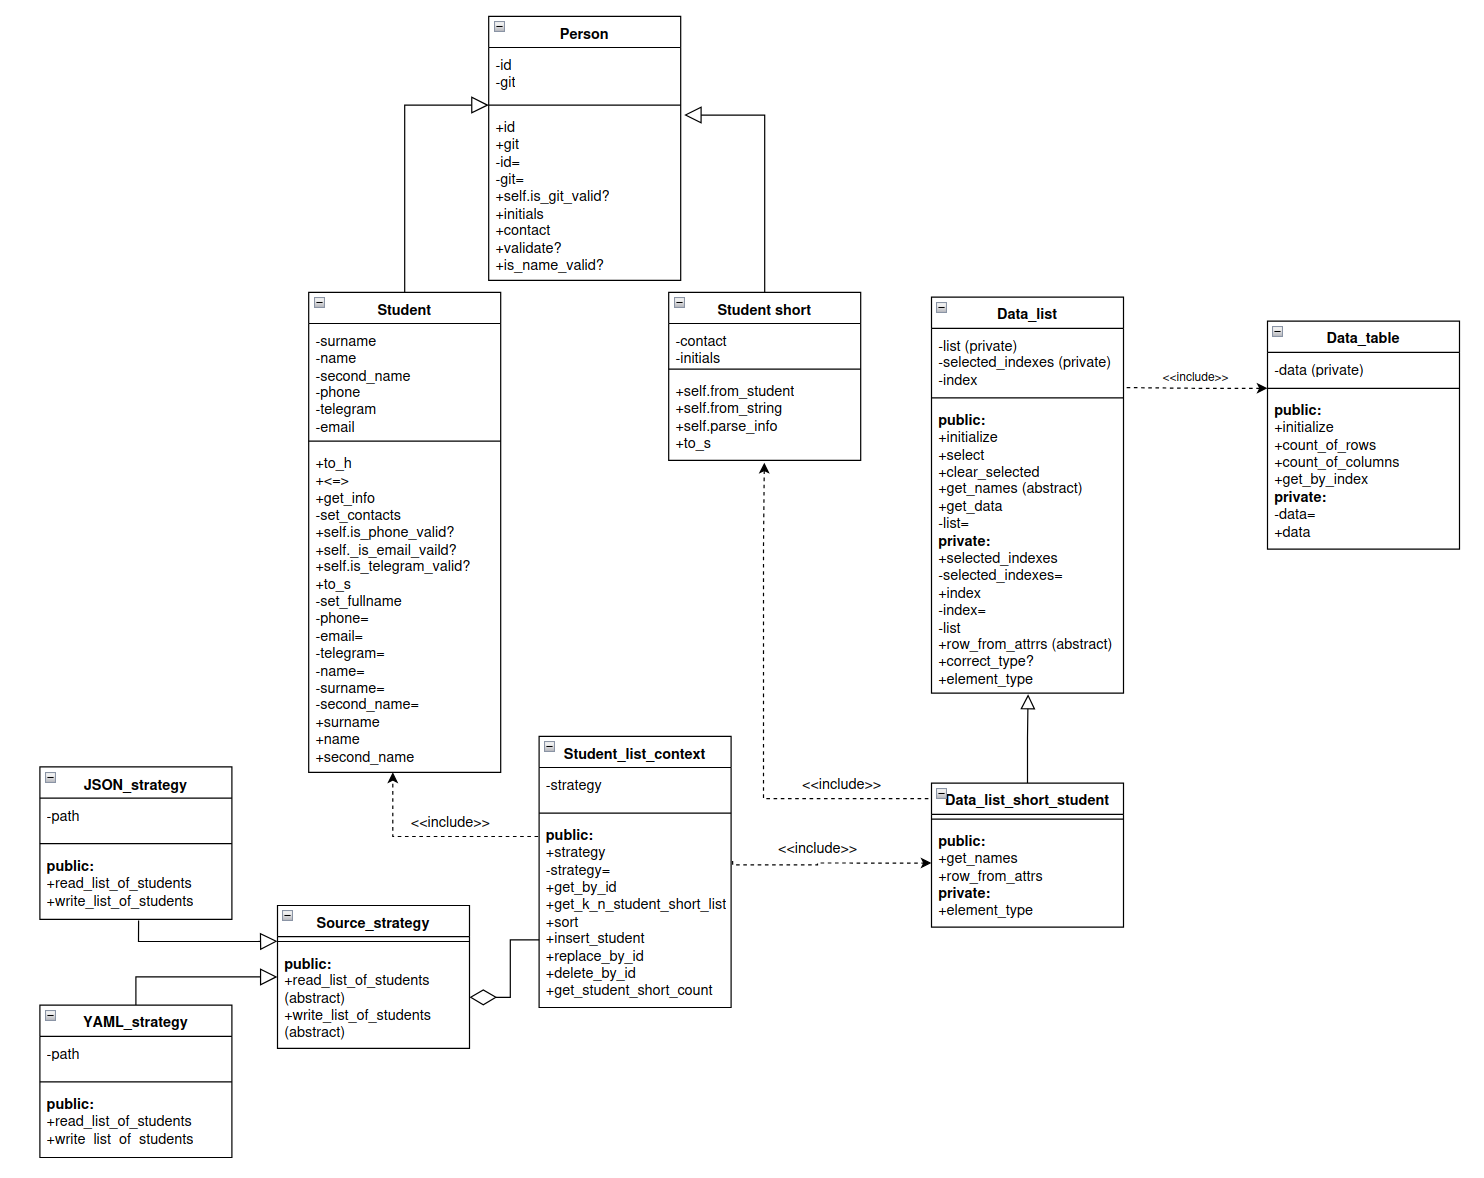
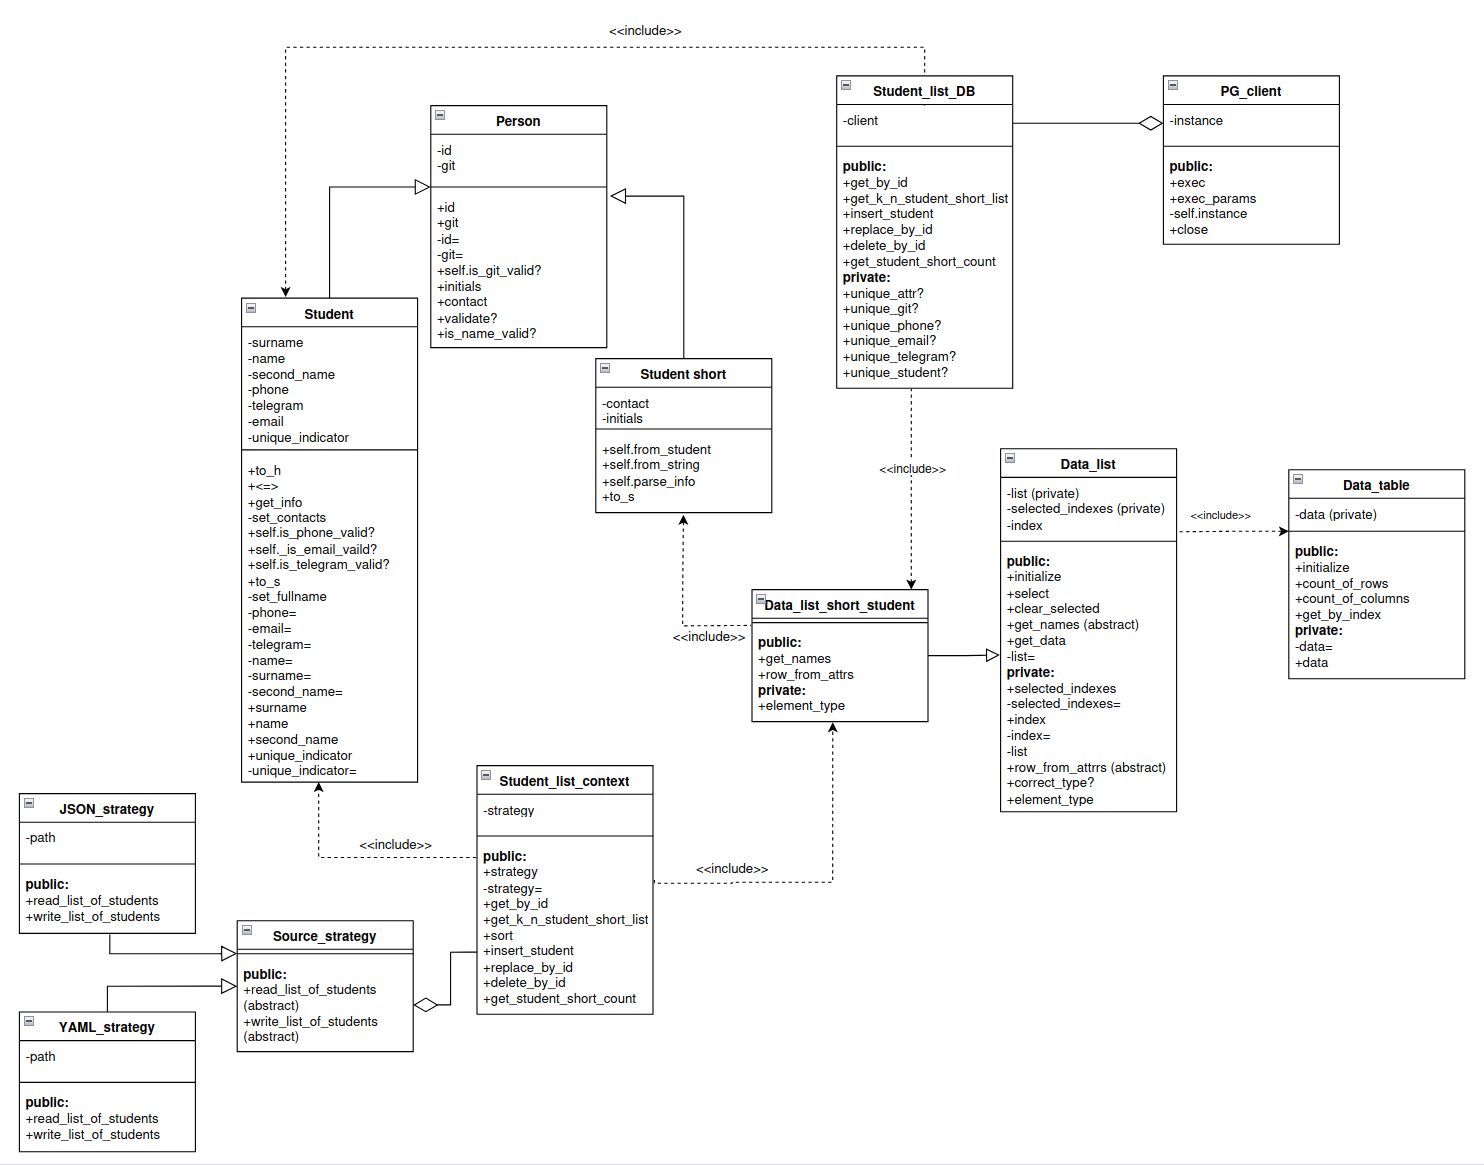
L4 finished: added diagram

diff --git a/students/data/sources/student_list_db.rb b/students/data/sources/student_list_db.rb
@@ -6,7 +6,7 @@ class Student_list_DB
   attr_accessor :client 
 
   def initialize
-    self.client = PG_client.new
+    self.client = PG_client.instance
   end
 
   def get_by_id(id)
@@ -35,7 +35,7 @@ class Student_list_DB
 
     Data_list_student_short.new(student_short_list)
   end
-  
+
   def insert_student(student)
     client.exec_params(
       "INSERT INTO students (surname, name, second_name, birthdate, phone, telegram, email, git) VALUES ($1, $2, $3, $4, $5, $6, $7, $8)",

diff --git a/students/data/model/db/pg_client.rb b/students/data/model/db/pg_client.rb
@@ -9,6 +9,10 @@ class PG_client
     client.exec_params(query, params)
   end
 
+  def close
+    client.close
+  end
+
   def self.instance
     if @instance.nil?
       new
